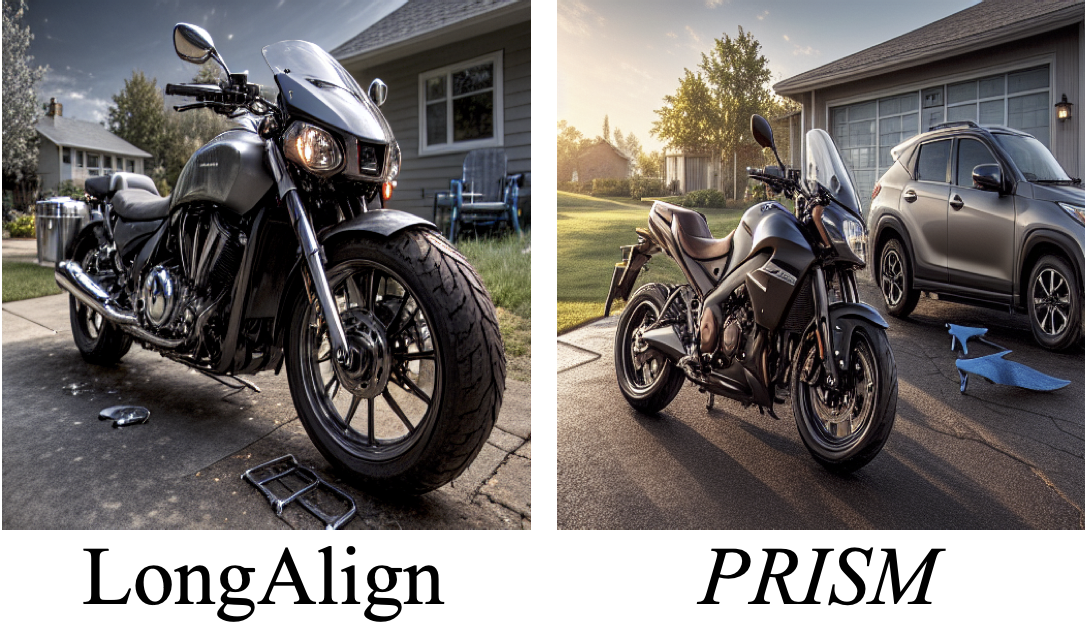
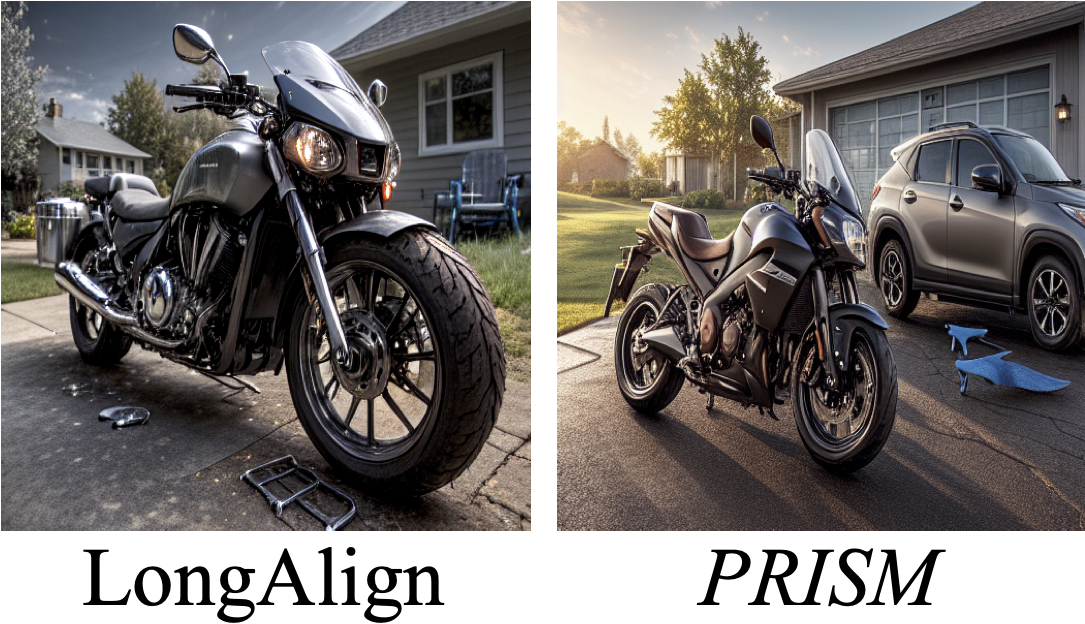
update pipeline figure

diff --git a/index.html b/index.html
@@ -279,7 +279,8 @@
             var cgSamples = [
               { img: './static/images/200_tks.png', prompt: 'A high-angle side view of a black Yamaha Virago motorcycle parked on black asphalt, facing right with its front wheel turned slightly toward the top right corner. The motorcycle has black fenders, a black fuel tank, and a brown leather seat. Its engine and exhaust pipes are gray silver. A red tail light is visible on the rear fender, and the Virago logo is on the gas tank. In the background is a residential setting with a gray house and a lawn. A walkway leads to a gray door. In the top left corner, the front of a gray Toyota C-HR SUV is partially visible. The scene is outdoors under soft, natural daylight, suggesting morning or late afternoon. The lighting comes from the side, creating gentle shadows. The style is a realistic photo. The black Yamaha Virago motorcycle is positioned in front of the lawn, and the gray Toyota C-HR SUV is located to the left of the motorcycle.' },
               { img: './static/images/250_tks.png', prompt: 'A high-angle side view of a black Yamaha Virago motorcycle parked on a black asphalt surface. The motorcycle faces right, with its front turned slightly toward the top right corner. The fenders, fuel tank, and handles are black, contrasted by a brown leather seat. The engine, exhaust pipes, and handlebar are gray silver. A red tail light is attached to the fender over the rear wheel, and the Virago logo is on the gas tank. The motorcycle is facing a lawn area on the side of a gray house. There is a walkway leading to a gray door, with a window on each side. Two blue chairs are in the top right corner. In the top left corner, the front of a gray Toyota C-HR SUV with sleek headlights is partially visible. The image is taken outdoors in natural daylight, with soft lighting suggesting morning or late afternoon. Side-lighting creates gentle shadows. The style is a realistic photo. The black Yamaha Virago motorcycle is positioned in front of the lawn area, closer to the viewer than the house. The gray Toyota C-HR SUV is located to the left of the motorcycle.' },
-              { img: './static/images/300_tks.png', prompt: "A high-angle side view of a black Yamaha Virago motorcycle facing the right side of the image, parked on a black asphalt surface. The front of the motorcycle is turned slightly toward the top right corner. The fenders, fuel tank, and handles of the motorcycle are black. It has a brown leather seat. The engine, exhaust pipes, and handlebar are gray silver. There is a red tail light attached to the fender over the top of the rear wheel. The Virago logo is on the side of the gas tank. The motorcycle faces a lawn area beside a house visible at the top of the image. A patch of grass and a walkway lead to a gray door, which has a window on each side. Two blue chairs are visible in the top right corner. In the top left corner is the right side of the front of a gray Toyota C-HR SUV with metallic paint and a modern design. The image is taken outdoors under natural daylight, with soft lighting suggesting it could be morning or late afternoon. The light source is positioned to the side, creating gentle shadows and highlighting the motorcycle's details. The style is a realistic photo. The black Yamaha Virago motorcycle is positioned in front of the lawn area. The gray Toyota C-HR SUV is located to the left of the motorcycle." }
+              { img: './static/images/300_tks.png', prompt: "A high-angle side view of a black Yamaha Virago motorcycle facing the right side of the image, parked on a black asphalt surface. The front of the motorcycle is turned slightly toward the top right corner. The fenders, fuel tank, and handles of the motorcycle are black. It has a brown leather seat. The engine, exhaust pipes, and handlebar are gray silver. There is a red tail light attached to the fender over the top of the rear wheel. The Virago logo is on the side of the gas tank. The motorcycle faces a lawn area beside a house visible at the top of the image. A patch of grass and a walkway lead to a gray door, which has a window on each side. Two blue chairs are visible in the top right corner. In the top left corner is the right side of the front of a gray Toyota C-HR SUV with metallic paint and a modern design. The image is taken outdoors under natural daylight, with soft lighting suggesting it could be morning or late afternoon. The light source is positioned to the side, creating gentle shadows and highlighting the motorcycle's details. The style is a realistic photo. The black Yamaha Virago motorcycle is positioned in front of the lawn area. The gray Toyota C-HR SUV is located to the left of the motorcycle." },
+              { img: './static/images/350_tks.png', prompt: "A high-angle side view of a black Yamaha Virago motorcycle facing the right side of the image, parked on a black asphalt surface. Its front is turned slightly toward the top right corner. The motorcycle's fenders, fuel tank, and handles are black, with a contrasting brown leather seat. The engine, exhaust pipes, and handlebar are gray silver. A red tail light is attached to the fender over the rear wheel, and the Virago logo is on the side of the gas tank. The motorcycle is facing a lawn besides the house. The background features a residential setting: a gray house, a patch of grass, and a walkway leading to a gray door with a window on each side. Two blue chairs sit in the top right corner. Visible in the top left corner is the right side of a gray Toyota C-HR SUV with metallic paint, a compact shape, sleek headlights, a Toyota emblem, and a modern design. The style is a realistic photo, taken outdoors in natural daylight with soft lighting conditions suggesting morning or late afternoon. The light source is positioned to the side, creating gentle shadows. The black Yamaha Virago motorcycle is positioned in front of the lawn area, and the gray Toyota C-HR SUV is located to the left of the motorcycle, further from the house." }
             ];
             var cgPage = 0;
             var img = document.getElementById('cg-img');
